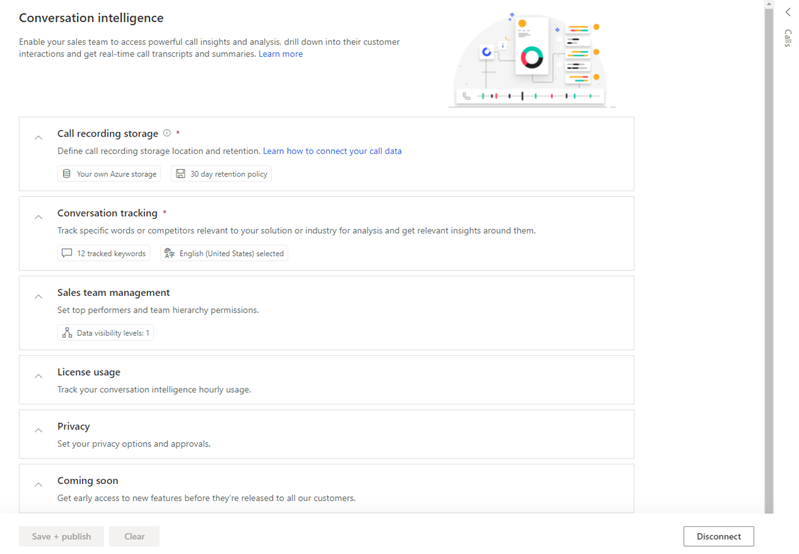
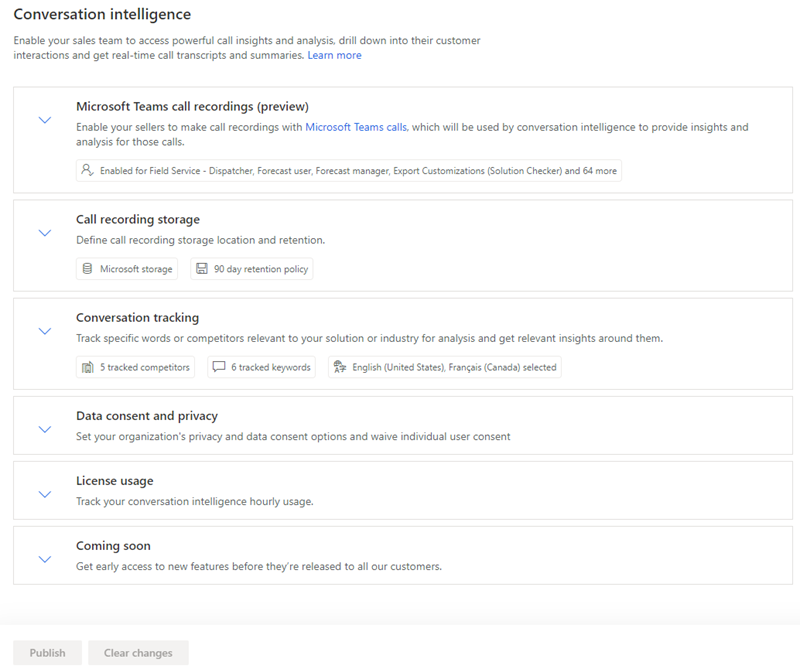
data retetition updated

diff --git a/ai-docs/sales/data-retention-deletion-policy.md b/ai-docs/sales/data-retention-deletion-policy.md
@@ -35,10 +35,9 @@ When you configure conversation intelligence, sales call recordings of sellers a
 2.	Select the **Settings** icon on the top-right of the page and then select **Settings**.  
     > [!div class="mx-imgBorder"]
     > ![Select settings option](media/si-app-admin-select-settings.png "Select settings option")  
-3.	On the **Settings** page, select **Privacy**.  
-    Privacy page opens and you can perform the following tasks:  
-        - [Provide read-only access to your data for Microsoft](#provide-read-only-access-to-your-data-for-microsoft)  
-        - [Retention policy](#retention-policy)  
+3.	On the **Settings** page, select the sections as required:   
+    - Select the **Call recording storage** section to configure [data retention policy](#call-recording-storage) for your organization.
+    - Select the **Data consent and privacy** section to configure [data consent and privacy](#data-consent-and-privacy) for your organization.  
 
 ### In Sales Hub app  
 
@@ -48,36 +47,36 @@ When you configure conversation intelligence, sales call recordings of sellers a
 2.	In the configuration page, under **Productivity**, select **Conversation intelligence**.  
     > [!div class="mx-imgBorder"]
     > ![Conversation intelligence configuration page](media/ci-admin-config-page.png "Conversation intelligence configuration page")
-3.	Select **Privacy**.  
-    Privacy page opens and you can perform the following tasks:  
-        - [Provide read-only access to your data for Microsoft](#provide-read-only-access-to-your-data-for-microsoft)  
-        - [Retention policy](#retention-policy)  
+3.	On the **Settings** page, select the sections as required:    
+    - Select the **Call recording storage** section to configure [data retention policy](#call-recording-storage) for your organization.
+    - Select the **Data consent and privacy** section to configure [data consent and privacy](#data-consent-and-privacy) for your organization.  
+    
+## Call recording storage
 
-## Provide read-only access to your data for Microsoft
+The **Call recording storage** section allows you to configure the data retention policy to determine how long you want to keep the analyzed call recording data in conversation intelligence by specifying a time limit. When you specify a retention time limit, the application retains the call recording data for the specified time limit. The application deletes the data when the time limit is reached.   
+For example, retention time limit is set 30 days. At any given time, application retains the call data from the time it is analyzed to 30 days. On the 31st day, the application deletes the analyzed call data.   
+Choose the storage option as described in the following table:     
+| Option | Description |
+|--------|-------------|
+| Storage for call recordings | Select an option to store your call recordings for analysis:<br><ul><li>**Microsoft provided storage**: Select this option if you want to use the storage provided by Microsoft. By default, this option is selected, and we recommend that you use this storage.</li><li>**Your own Azure storage**: Select this option if you want to use your custom Azure storage. After you select this option, enter the **Storage connection string** and **Container name**.</li></ul>More information: [Configure conversation intelligence to connect call data](configure-conversation-intelligence-call-data.md). |
+| Retention policy | Choose a retention time limit. The application retains call recording data for the specified time limit, and deletes it when the time limit is reached. <li> For **Microsoft provided storage**, the available retention periods are 30 days and 90 days. </li> <li> For **Your own Azure storage**, the retention period is available from 30 days until 10 years. Use this storage type if your organization requires longer retention periods. | 
 
-You can allow to Microsoft to improve the quality of insights through manual (human) read-only access to your organization’s data in conversation intelligence. This is optional.  
-1. Under the **Read-only access to data** section, select the option to allow Microsoft with read-only access to your data.  
 > [!div class="mx-imgBorder"]
-> ![Enable privacy](media/ci-admin-enable-privacy-ci-app.png "Enable privacy")  
-2. Save the settings.
+> ![Select a storage option and its corresponding retention policy](media/ci-admin-teams-choose-storage-retention-policy.png "Select a storage option and its corresponding retention policy")
 
-## Retention Policy
+## Data consent and privacy
 
-Retention policy allows you to determine how long you want to keep the analyzed call recording data in conversation intelligence by specifying a time limit. When you specify a retention time limit, the application retains the call recording data for the specified time limit. The application deletes the data when the time limit is reached. 
+- **Waive individual user consent**: Select this option to automatically provide your organization’s users with access to conversation intelligence. You provide consent on behalf of your organization’s users of Microsoft Dynamics 365 online services to activate, configure, and enable functionality which transmits your data to external systems.    
+- **Allow read-only access to data**: Select this option to allow Microsoft to improve the quality of insights through manual (human) read-only access to your organization’s data in conversation intelligence. This is optional. More information: [Terms and Conditions](https://go.microsoft.com/fwlink/?linkid=521839). 
 
-For example, retention time limit is set 30 days. At any given time, application retains the call data from the time it is analyzed to 30 days. On the 31st day, the application deletes the analyzed call data.  
-1.	In the **Retention policy** section, select the drop-down and choose how many days you want to retain the analyzed data. You have the following options to choose: **Always**, **30 days**, **1 year**, or **90 Days**.  
     > [!div class="mx-imgBorder"]
-    > ![Select data retention time](media/si-app-admin-select-retention-policy.png "Select data retention time")   
-2.	Select **Save**.  
-    Retention policy configuration is saved, and the analyzed call recording data will be retained until the selected option.
+    > ![Conversation intelligence configuration page](media/ci-admin-data-consent-privacy.png "Conversation intelligence configuration page")
 
 To learn more on Microsoft Dynamics 365 and GDPR, see [Microsoft Dynamics 365 and GDPR](/dynamics365/get-started/gdpr/index).
 
 ### See also
 
-[Introduction to administer conversation intelligence](intro-admin-guide-sales-insights.md#administer-conversation-intelligence)
-
+[Introduction to administer conversation intelligence](intro-admin-guide-sales-insights.md#administer-conversation-intelligence)    
 [Prerequisites to use conversation intelligence](prereq-sales-insights-app.md)
 
 [!INCLUDE[footer-include](../includes/footer-banner.md)]

diff --git a/ai-docs/sales/fre-setup-sales-insight-app.md b/ai-docs/sales/fre-setup-sales-insight-app.md
@@ -146,7 +146,7 @@ You can proceed to configure Teams with conversation intelligence.
     | Option | Description |
     |--------|-------------|
     | Storage for call recordings | Select an option to store your call recordings for analysis:<br><ul><li>**Microsoft provided storage**: Select this option if you want to use the storage provided by Microsoft. By default, this option is selected, and we recommend that you use this storage.</li><li>**Your own Azure storage**: Select this option if you want to use your custom Azure storage. After you select this option, enter the **Storage connection string** and **Container name**.</li></ul>More information: [Configure conversation intelligence to connect call data](configure-conversation-intelligence-call-data.md) |
-    | Retention policy | Choose a retention time limit. The application retains call recording data for the specified time limit, and deletes it when the time limit is reached. More information: [Retention policy](data-retention-deletion-policy.md#retention-policy) |   
+    | Retention policy | Choose a retention time limit. The application retains call recording data for the specified time limit, and deletes it when the time limit is reached. More information: [Call recording storage](data-retention-deletion-policy.md#call-recording-storage). |   
 
     > [!div class="mx-imgBorder"]
     > ![Select a storage option and retention policy](media/ci-admin-teams-choose-storage-retention-policy.png "Select a storage option and retention policy")
